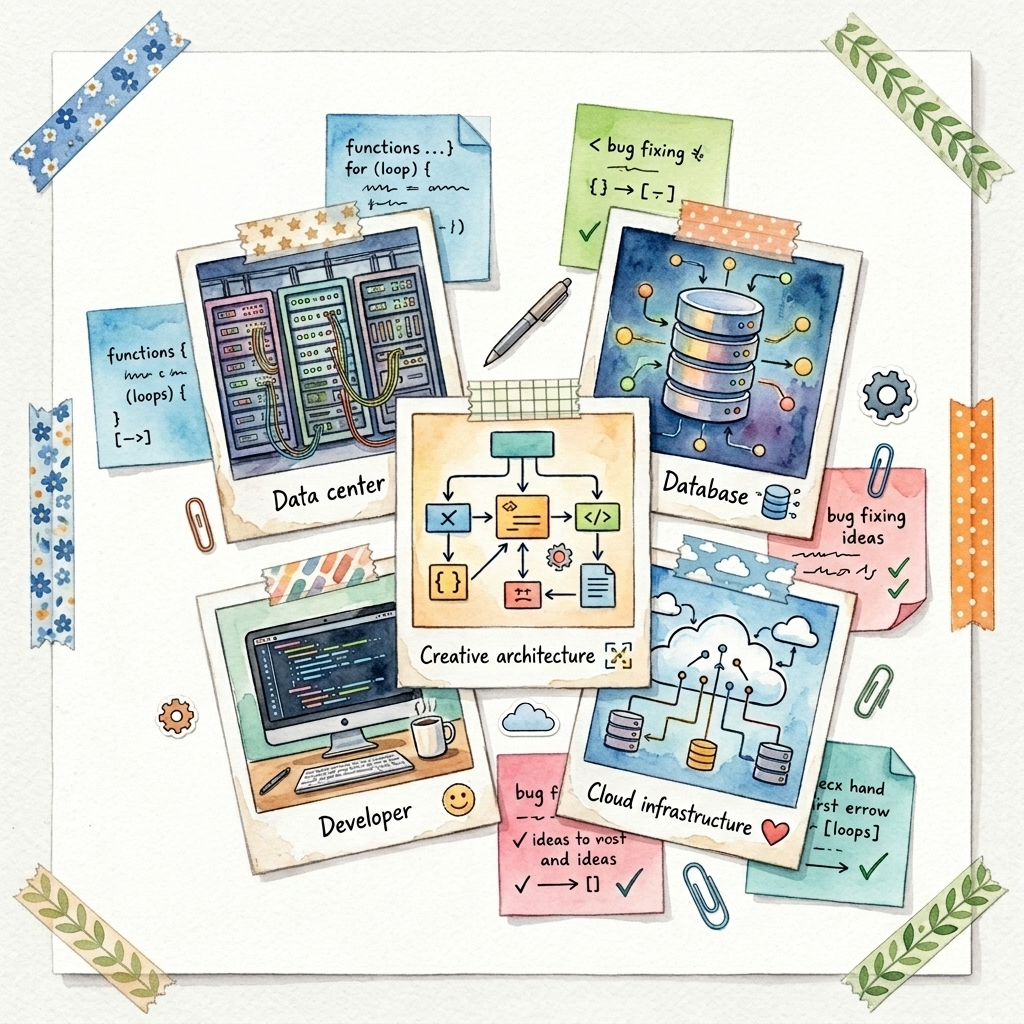
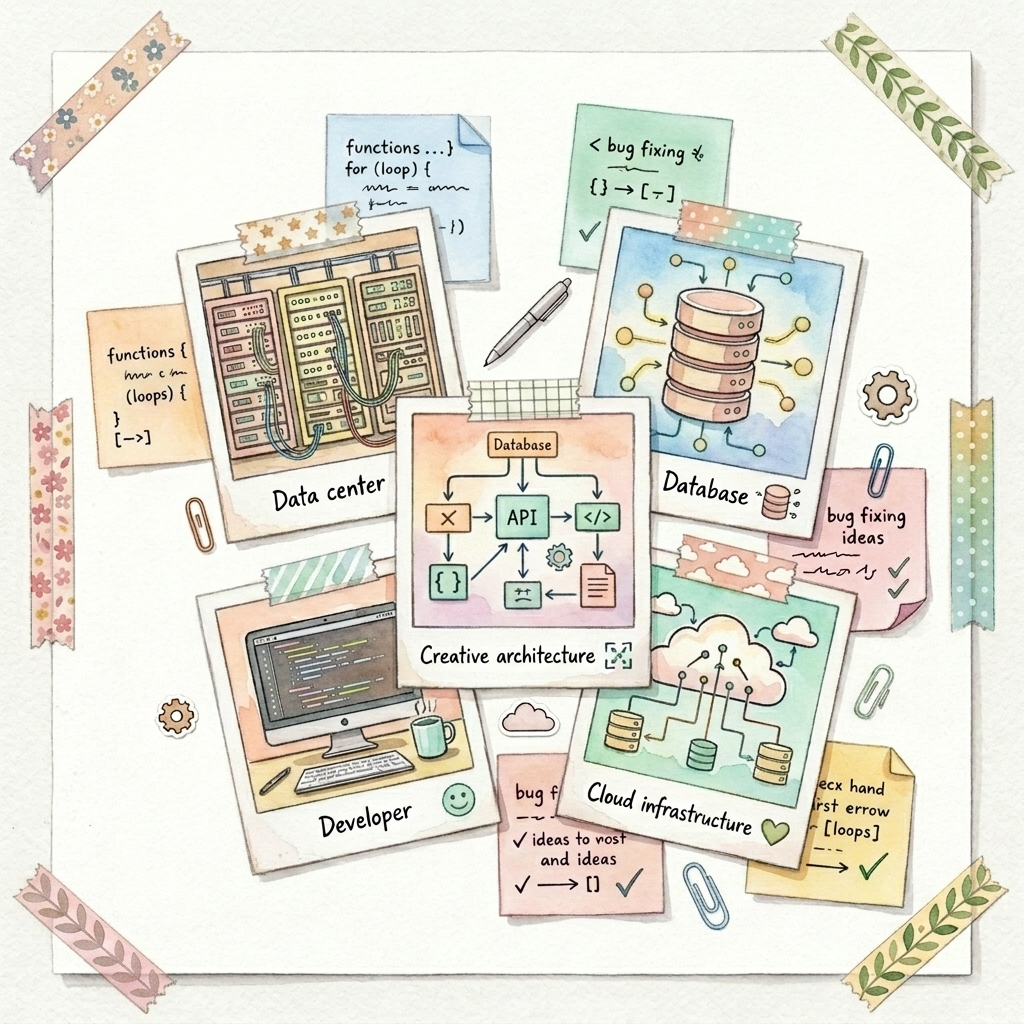
feat: second commit

diff --git a/index.html b/index.html
@@ -143,7 +143,23 @@
 			background: rgba(255, 255, 255, 0.95) !important;
 			box-shadow: 0 4px 20px rgba(0, 0, 0, 0.05) !important;
 		}
-		.ftco-navbar-light .navbar-nav > .nav-item.active > a { color: var(--primary-color) !important; font-weight: bold; }
+		.ftco-navbar-light .navbar-nav > .nav-item.active > a,
+		.ftco-navbar-light.scrolled .navbar-nav > .nav-item.active > a,
+		.ftco-navbar-light .navbar-nav > .nav-item > .nav-link.active,
+		.ftco-navbar-light.scrolled .navbar-nav > .nav-item > .nav-link.active { 
+			color: var(--text-main) !important; 
+			font-weight: 600; 
+			text-decoration: none !important;
+		}
+		.ftco-navbar-light .navbar-nav > .nav-item.active > a:hover,
+		.ftco-navbar-light.scrolled .navbar-nav > .nav-item.active > a:hover,
+		.ftco-navbar-light .navbar-nav > .nav-item > .nav-link.active:hover,
+		.ftco-navbar-light.scrolled .navbar-nav > .nav-item > .nav-link.active:hover {
+			color: var(--accent-color) !important;
+			text-decoration: underline wavy var(--accent-color) !important;
+			text-underline-offset: 6px;
+			text-decoration-thickness: 2px;
+		}
 		.ftco-navbar-light .navbar-brand span { color: var(--secondary-color) !important; }
 		.navbar-brand:after {
 			background: transparent !important;
@@ -152,12 +168,22 @@
 			box-shadow: 3px 3px 0px var(--secondary-color);
 		}
 		.navbar-brand { color: var(--text-main) !important; font-family: 'Jua', sans-serif !important; }
-		.nav-link { color: var(--text-main) !important; font-family: 'Jua', sans-serif !important; font-size: 1.1rem !important;}
+		.nav-link { 
+			color: var(--text-main) !important; 
+			font-family: 'Gowun Dodum', sans-serif !important; 
+			font-size: 1.25rem !important;
+			font-weight: 600;
+			transition: all 0.2s ease;
+		}
+		.nav-link:hover,
+		.ftco-navbar-light.scrolled .nav-link:hover {
+			color: var(--accent-color) !important;
+			text-decoration: underline wavy var(--accent-color);
+			text-underline-offset: 6px;
+			text-decoration-thickness: 2px;
+		}
 		.ftco-navbar-light .navbar-nav > .nav-item > .nav-link span:before {
-			background: var(--secondary-color) !important;
-			height: 4px;
-			bottom: 4px;
-			z-index: -1;
+			display: none !important;
 		}
 
 		/* Misc Section Cute & Round */
@@ -287,9 +313,9 @@
 		/* Floating Corner Decors */
 		.corner-decor { position: absolute; z-index: 0; mix-blend-mode: multiply; pointer-events: none; opacity: 0.85; }
 		.corner-decor.top-left { top: -20px; left: -20px; width: 450px; max-width: 35vw; }
-		.corner-decor.bottom-right { bottom: -20px; right: -20px; width: 500px; max-width: 40vw; }
 		.corner-decor.top-right { top: -20px; right: -20px; width: 450px; max-width: 35vw; transform: scaleX(-1); }
-		.corner-decor.bottom-left { bottom: -20px; left: -20px; width: 500px; max-width: 40vw; transform: scaleX(-1); }
+		.corner-decor.bottom-left { bottom: -20px; left: -20px; width: 700px; max-width: 50vw; transform: scaleX(-1); opacity: 1 !important; mix-blend-mode: multiply !important; filter: contrast(1.2) saturate(1.1); }
+		.corner-decor.bottom-right { bottom: -20px; right: -20px; width: 700px; max-width: 50vw; opacity: 1 !important; mix-blend-mode: multiply !important; filter: contrast(1.2) saturate(1.1); }
 
 		@media (max-width: 992px) {
 			.text-overlay h1 { font-size: 2.5rem !important; }